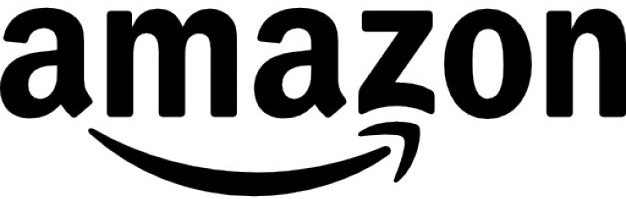
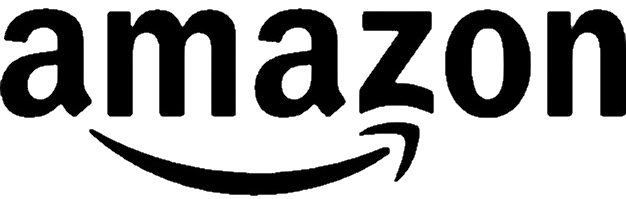
a

diff --git a/_includes/registry.html b/_includes/registry.html
@@ -7,8 +7,8 @@
       </div>
     </div>
     <div class="row">
-      <div class="col-md-6"><div class="img-responsive"><img  src="img/registry/amazon-black.jpg"></div></div>
-      <div class="col-md-6"><div class="img-responsive"><img  src="img/registry/williams-sonoma.png"></div></div>
+      <div class="col-md-6"><div class="img-responsive"><img  src="img/registry/amazon-black.png"></div></div>
+      <div class="col-md-6"><div class="img-responsive"><img  src="img/registry/williams-sonoma-stacked.png"></div></div>
     </div>
   </div>
 </section>
